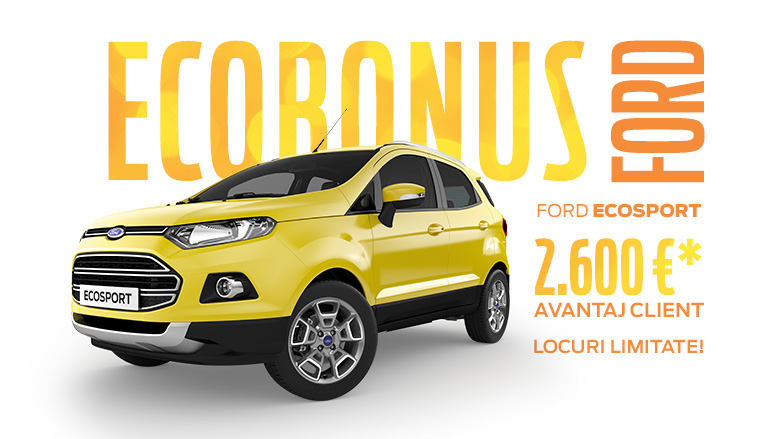
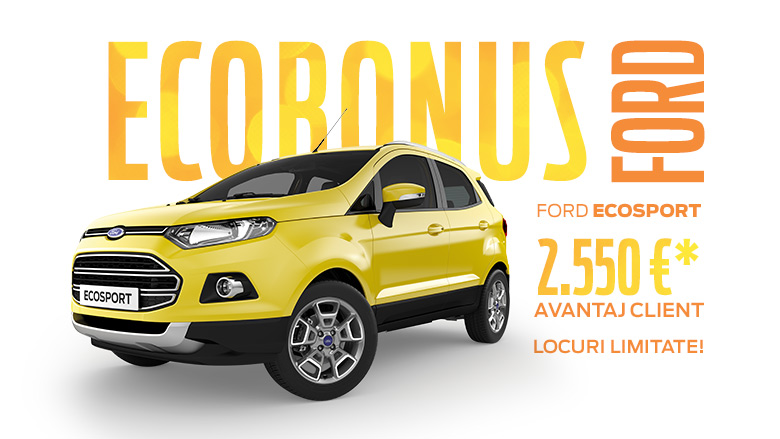
home

Changed region(s): [[0.6769, 0.533, 0.9231, 0.6811]]

diff --git a/application/views/layouts/includes/navbar.php b/application/views/layouts/includes/navbar.php
@@ -11,8 +11,9 @@
     <a href="http://www.ford.ro/">
         <img src='<?=base_url('assets/img/logo_ford.png')?>' role="presentation" alt="Ford">
     </a>
+
     <h1 class="bigHeading visuallyhidden">Ford</h1>
-   
+
 </div>
 
 
@@ -20,6 +21,13 @@
 <h2 class="navTitle">Navigare site Ford</h2>
 <ul id="sections" role="menu">
 <li class="levelOne" role="menuitem" data-nav="pv">
+
+    <a role="link" class="mainTopNav om_he_pv_li" href="/"><span>Home</span></a>
+
+
+</li>
+<li class="levelOne" role="menuitem" data-nav="pv">
+
 <a role="link" class="mainTopNav om_he_pv_li" href="#"><span>Autoturisme</span></a>
 
 <div class="doormat">
@@ -149,44 +157,45 @@
 <li class="levelOne" role="menuitem" data-nav="generic">
     <a role="link" href="/FordLeasing/Overview" class="om_he_at_li"><span>Finantare</span></a>
 </li>
-<li class="levelOne" role="menuitem" data-nav="generic">
-    <a role="link" href="#" class="om_he_at_li"><span>Tehnologii Ford</span></a>
+
+    <!--<li class="levelOne" role="menuitem" data-nav="generic">
+        <a role="link" href="#" class="om_he_at_li"><span>Tehnologii Ford</span></a>
 
 
-</li>
-<li class="levelOne" role="menuitem" data-nav="generic">
-    <a role="link" href="/FordFleet" class="om_he_at_li"><span>Flote</span></a>
-</li>
-<li class="levelOne" role="menuitem" data-nav="generic">
-    <a role="link" href="/Business_Service_Club" class="om_he_at_li"><span>Business Service Club</span></a>
-</li>
-<li class="levelOne" role="menuitem" data-nav="generic">
-    <a role="link" href="/FordService/Motorcraft" class="om_he_at_li"><span>Service</span></a>
+    </li> -->
+    <li class="levelOne" role="menuitem" data-nav="generic">
+        <a role="link" href="/FordFleet" class="om_he_at_li"><span>Flote</span></a>
+    </li>
+    <li class="levelOne" role="menuitem" data-nav="generic">
+        <a role="link" href="/Business_Service_Club" class="om_he_at_li"><span>Business Service Club</span></a>
+    </li>
+    <li class="levelOne" role="menuitem" data-nav="generic">
+        <a role="link" href="/FordService/Motorcraft" class="om_he_at_li"><span>Service</span></a>
 
-    <div class="flyout">
-        <ul class="subMenu" role="menu">
-            <li role="menuitem"><a href="/FordService/Motorcraft" class="om_he_ac_li">Ford Motorcraft</a></li>
-            <li role="menuitem"><a href="/FordService/FordServiceApp" class="om_he_ac_li">Ford Service App</a></li>
-            <li role="menuitem"><a href="/FordService/Accesorii" class="om_he_ac_li">Accesorii</a></li>
-            <li role="menuitem"><a href="/FordService/Service" class="om_he_ac_li">Service</a></li>
-            <li role="menuitem"><a href="/FordService/GarantiiSiRevizii" class="om_he_ac_li">Garanţii şi revizii Ford</a></li>
-            <li role="menuitem"><a href="/FordService/FordAsistenta12" class="om_he_ac_li">FordAsistenta 12</a></li>
-            <li role="menuitem"><a href="/FordService/AccidenteSiReparatii" class="om_he_ac_li">Accidente şi reparaţii</a></li>
-            <li role="menuitem"><a href="/FordService/Ford-Lifestyle-Collection" class="om_he_ac_li">Ford Lifestyle Collection</a></li>
-            <li role="menuitem"><a href="/FordService/FordSYNC" class="om_he_ac_li">Ford SYNC</a></li>
-            <li role="menuitem"><a href="/FordService/Ford-SYNC-cu-AppLink" class="om_he_ac_li">Ford SYNC cu AppLink</a></li>
-            <li role="menuitem"><a href="/FordService/FordSYNCBluetooth" class="om_he_ac_li">Ford SYNC cu Bluetooth</a></li>
-            <li role="menuitem"><a href="/FordService/Euro_NCAP_Advanced" class="om_he_ac_li">Euro NCAP Advanced</a></li>
-            <li role="menuitem"><a href="/FordService/E10" class="om_he_ac_li">Combustibil E10</a></li>
-            <li role="menuitem"><a href="/FordService/IntrebariFrecvente" class="om_he_ac_li">Întrebări frecvente</a></li>
-            <li role="menuitem"><a href="/FordService/Refrigerant_R134a" class="om_he_ac_li">Refrigerant R134a</a></li>
-        </ul>
-    </div>
-</li>
+        <div class="flyout">
+            <ul class="subMenu" role="menu">
+                <li role="menuitem"><a href="/FordService/Motorcraft" class="om_he_ac_li">Ford Motorcraft</a></li>
+                <li role="menuitem"><a href="/FordService/FordServiceApp" class="om_he_ac_li">Ford Service App</a></li>
+                <li role="menuitem"><a href="/FordService/Accesorii" class="om_he_ac_li">Accesorii</a></li>
+                <li role="menuitem"><a href="/FordService/Service" class="om_he_ac_li">Service</a></li>
+                <li role="menuitem"><a href="/FordService/GarantiiSiRevizii" class="om_he_ac_li">Garanţii şi revizii Ford</a></li>
+                <li role="menuitem"><a href="/FordService/FordAsistenta12" class="om_he_ac_li">FordAsistenta 12</a></li>
+                <li role="menuitem"><a href="/FordService/AccidenteSiReparatii" class="om_he_ac_li">Accidente şi reparaţii</a></li>
+                <li role="menuitem"><a href="/FordService/Ford-Lifestyle-Collection" class="om_he_ac_li">Ford Lifestyle Collection</a></li>
+                <li role="menuitem"><a href="/FordService/FordSYNC" class="om_he_ac_li">Ford SYNC</a></li>
+                <li role="menuitem"><a href="/FordService/Ford-SYNC-cu-AppLink" class="om_he_ac_li">Ford SYNC cu AppLink</a></li>
+                <li role="menuitem"><a href="/FordService/FordSYNCBluetooth" class="om_he_ac_li">Ford SYNC cu Bluetooth</a></li>
+                <li role="menuitem"><a href="/FordService/Euro_NCAP_Advanced" class="om_he_ac_li">Euro NCAP Advanced</a></li>
+                <li role="menuitem"><a href="/FordService/E10" class="om_he_ac_li">Combustibil E10</a></li>
+                <li role="menuitem"><a href="/FordService/IntrebariFrecvente" class="om_he_ac_li">Întrebări frecvente</a></li>
+                <li role="menuitem"><a href="/FordService/Refrigerant_R134a" class="om_he_ac_li">Refrigerant R134a</a></li>
+            </ul>
+        </div>
+    </li>
 
-</ul>
-</nav>
-<!--  TODO : breadcrumb navigation, viewAs and search field html fragment goes here  -->
+    </ul>
+    </nav>
+    <!--  TODO : breadcrumb navigation, viewAs and search field html fragment goes here  -->
 <div class="topContainer">
     <div id="fr" class="fr">
         <form class="searchBox fl" method="get" action="http://www.ford.ro/cs/ContentServer" role="search">

diff --git a/application/views/ford_service/test.php b/application/views/ford_service/test.php
@@ -1,8 +1,66 @@
+div id="container_center">
 <div class="center_item">
-    <div class="btoArticleTitle"><h1><font size="5">FORD <strong>MOTORCRAFT</strong> </font></h1></div>
+    <div class="btoArticleTitle">Ford Ecobonus - avantaj total client 2.550 € pentru Ford EcoSport</div>
     <div class="btoArticleText">
         <div class="btoArticleAbstract">
-            <div><strong><span style="font-size: medium;">Servicii de calitate la preturi all-inclusive pentru autovehiculele Ford cu varsta de peste 4 ani</span></strong><br> <br> <span style="color: rgb(0, 0, 255);">Discount special pentru programarea online &ndash; 39 lei reducere din pretul recomandat de vanzare la Ford Motorcraft Service daca te programezi online <a HREF="/SBE/Motorcraft/OSBOV" >aici</a> la <a TITLE="Dealeri participanti (208 KB)" HREF="/cs/BlobServer?blobtable=MungoBlobs&amp;blobcol=urldata&amp;blobheadervalue1=attachment%3Bfilename%3D%22dealeri_participanti.pdf%22&amp;blobheadervalue2=abinary%3Bcharset%3DUTF-8&amp;blobheadername1=Content-Disposition&amp;blobheadername2=MDT-Type&amp;blobheader=application%2Fpdf&amp;blobwhere=1214571747221&amp;blobkey=id" CLASS="download" onClick="if (typeof sford == 'object') omnitureLinkDownloadClick('brand:pdf download:service promotion:participating dealers','','','event:find dealer','download dealer list','pdf download','',false,'blank value','blank','blank value');" >dealerii participanti</a></span>.<br> <br> De la revizie si reparatii uzuale pana la Pre-verificare I.T.P si anvelope, la Ford Motorcraft 4+ vei gasi tot ce iţi trebuie. Un brand special conceput pentru modelele Ford cu o vechime de minimum 4 ani, Ford Motorcraft ofera preturi clare si transparente, fara costuri ascunse. Mai mult, de autoturismul tau se vor ocupa profesionistii de la Ford, ajutati de cele mai noi echipamente si piese originale Ford.</div>
+            <div>Iesi din tipare! EcoSport, noua reinterpretare Ford a unui SUV (Smart Utility Vehicle) este alegerea
+                perfecta atunci cand iti doresti o masina in care fiecare drum poate deveni o aventura urbana. Compact,
+                spatios, robust si echipat cu tehnologii de ultima generatie, EcoSport te tine mereu in miscare, oriunde
+                ai fi, oferindu-ti toata increderea de care ai nevoie atunci cand esti la volan. <br> <strong><br> La
+                    casarea masinii vechi, prin programul Ecobonus, beneficiezi de 1.500 &euro; bonus si ajungi in final
+                    sa ai un avantaj client de 2.550 &euro;, la achizitionarea unui Ford EcoSport. </strong><br> <br> Un
+                autoturism Ford EcoSport 1.5 Ti- VCT 110 CP iti ofera dotari cum ar fi:
+            </div>
+            <ul class="ListM">
+                <li>Sisteme de siguranta si stabilitate: ESP (Program Electronic de Stabilitate), ABS (Sistem
+                    Anti-Blocare la Franare), IVD (Sistem electronic de control dinamic),
+                </li>
+                <li>Airbag-uri frontale, laterale, cortina, sofer si pasager; airbag genunchi pentru sofer;</li>
+                <li>Oglinzi actionate electric si incalzite, in culoarea caroseriei;</li>
+                <li>Aer conditionat automat cu reglare separata stanga/ dreapta;</li>
+                <li>Faruri cu functie &bdquo;Follow me home&rdquo;; faruri de ceata;</li>
+                <li>Sistem MyKey;</li>
+                <li>Volan si schimbator de viteze imbracate in piele;</li>
+                <li>Tehnologie Start&amp;Stop;.</li>
+            </ul>
+            <div>Iar pachetul Trend, care este inclus in pret, iti aduce suplimentar:</div>
+            <ul class="ListM">
+                <li>bare pavilion cu aspect cromat;</li>
+                <li>jante aliaj 16&quot;;</li>
+                <li>radio CD cu 6 difuzoare, ecran color 4.2&quot;;</li>
+                <li>SYNC 1 cu Blue Tooth si Voice Control;</li>
+                <li>Sistem de Asistenta in caz de urgenta (112).</li>
+            </ul>
+            <div><strong>Rezerva acum oferta speciala pentru Ford EcoSport &ndash; click <a
+                        HREF="/Promotii/Autoturisme/Ecobonus/Rezervare">aici</a>! <br> <br> Pentru detalii despre
+                    procedura de casare si cum poti beneficia de Ecobonus, click <a
+                        HREF="/promotii/Autoturisme/Ecobonus/Procedura">aici</a>.<br> <br> Ai nevoie de mai multe
+                    informatii? Toate detaliile despre Ford EcoSport si oferta speciala iti stau la dispozitie in cel
+                    mai apropiat <a HREF="/SBE/dealeri-ford">showroom Ford</a>! </strong><br> <br> <em>* Oferta este
+                    supusa unor termeni si conditii, este adresata exclusiv persoanelor fizice si este valabila in
+                    limita stocului disponibil la dealerii participanti la program. Oferta prezentata include TVA si
+                    este obtinuta dupa includerea cumulativa a: 1. contravalorii suportului acordat de Ford Romania prin
+                    programul Ford ECOBONUS, 2. contributiei dealerilor participanti la acest program. Oferta nu include
+                    echipamente, accesorii sau dotari optionale, cu exceptia Pachetului Trend aferent fiecarui
+                    model.<br> Consumul mixt masurat in conformitate cu dispozitiile legale in vigoare (e.g Directiva
+                    Europeana nr. 715/2007) pentru EcoSport Trend 1.5 Ti- VCT 110 CP: 6.3 l/100 km, emisii
+                    CO<sub>2</sub> (g/km):149, valoare masurata in conformitate cu dispozitiile legale in vigoare. </em>
+                <style type="text/css">
+                    .ListM li {
+                        list-style-type: disc;
+                    }
+                </style>
+            </div>
         </div>
     </div>
-</div>           
+</div>
+<div class="center_item">
+</div>
+<div class="center_item">
+</div>
+<div class="center_item">
+</div>
+<div class="center_item">
+</div>
+<div id="center_btt">
+</div>

diff --git a/application/views/promotii/autoturisme/ecobonus/oferta_ecosport_e.php b/application/views/promotii/autoturisme/ecobonus/oferta_ecosport_e.php
@@ -179,17 +179,16 @@ if(typeof(sford)=='object') omnitureMDPFullScreen('1205111010986'); return false
     </div>
     <div id="container_center">
         <div class="center_item">
-            <div class="btoArticleTitle">Ford Ecobonus - avantaj total client 2.600 € pentru Ford EcoSport</div>
+            <div class="btoArticleTitle">Ford Ecobonus - avantaj total client 2.550 € pentru Ford EcoSport</div>
             <div class="btoArticleText">
                 <div class="btoArticleAbstract">
-                    <div>Iesi din tipare! EcoSport, noua reinterpretare Ford a unui SUV (Smart Utility Vehicle) este
-                        alegerea perfecta atunci cand iti doresti o masina in care fiecare drum poate deveni o aventura
-                        urbana. Compact, spatios, robust si echipat cu tehnologii de ultima generatie, EcoSport te tine
-                        mereu in miscare, oriunde ai fi, oferindu-ti toata increderea de care ai nevoie atunci cand esti
-                        la volan. <br> <strong><br> La casarea masinii vechi, prin programul Ecobonus, beneficiezi de
-                            1.500 &euro; bonus si ajungi in final sa ai un avantaj client de 2.600 &euro;, la
-                            achizitionarea unui Ford EcoSport. </strong><br> <br> Un autoturism Ford EcoSport 1.5 Ti-
-                        VCT 110 CP iti ofera dotari cum ar fi:
+                    <div>Iesi din tipare! EcoSport, noua reinterpretare Ford a unui SUV (Smart Utility Vehicle) este alegerea
+                        perfecta atunci cand iti doresti o masina in care fiecare drum poate deveni o aventura urbana. Compact,
+                        spatios, robust si echipat cu tehnologii de ultima generatie, EcoSport te tine mereu in miscare, oriunde
+                        ai fi, oferindu-ti toata increderea de care ai nevoie atunci cand esti la volan. <br> <strong><br> La
+                            casarea masinii vechi, prin programul Ecobonus, beneficiezi de 1.500 &euro; bonus si ajungi in final
+                            sa ai un avantaj client de 2.550 &euro;, la achizitionarea unui Ford EcoSport. </strong><br> <br> Un
+                        autoturism Ford EcoSport 1.5 Ti- VCT 110 CP iti ofera dotari cum ar fi:
                     </div>
                     <ul class="ListM">
                         <li>Sisteme de siguranta si stabilitate: ESP (Program Electronic de Stabilitate), ABS (Sistem
@@ -212,20 +211,17 @@ if(typeof(sford)=='object') omnitureMDPFullScreen('1205111010986'); return false
                         <li>Sistem de Asistenta in caz de urgenta (112).</li>
                     </ul>
                     <div><strong>Rezerva acum oferta speciala pentru Ford EcoSport &ndash; click <a
-                                HREF="Rezervare">aici</a>! <br> <br> Pentru detalii despre procedura de casare si
-                            cum poti beneficia de Ecobonus, click <a HREF="Procedura-2">aici</a>.<br> <br> Ai
-                            nevoie de mai multe informatii? Toate detaliile despre Ford EcoSport si oferta speciala iti
-                            stau la dispozitie in cel mai apropiat <a HREF="#">showroom
-                                Ford</a>! </strong><br> <br> <em>* Oferta este supusa unor termeni si conditii, este
-                            adresata exclusiv persoanelor fizice si este valabila in limita stocului disponibil la
-                            dealerii participanti la program. Oferta prezentata include TVA si este obtinuta dupa
-                            includerea cumulativa a: 1. contravalorii suportului acordat de Ford Romania prin programul
-                            Ford ECOBONUS, 2. contributiei dealerilor participanti la acest program. Oferta nu include
+                                HREF="/Promotii/Autoturisme/Ecobonus/Rezervare">aici</a>! <br> <br> Pentru detalii despre
+                            procedura de casare si cum poti beneficia de Ecobonus, click <a
+                                HREF="/promotii/Autoturisme/Ecobonus/Procedura">aici</a>.<br> </strong><br> <br> <em>* Oferta este
+                            supusa unor termeni si conditii, este adresata exclusiv persoanelor fizice si este valabila in
+                            limita stocului disponibil la dealerii participanti la program. Oferta prezentata include TVA si
+                            este obtinuta dupa includerea cumulativa a: 1. contravalorii suportului acordat de Ford Romania prin
+                            programul Ford ECOBONUS, 2. contributiei dealerilor participanti la acest program. Oferta nu include
                             echipamente, accesorii sau dotari optionale, cu exceptia Pachetului Trend aferent fiecarui
-                            model.<br> Consumul mixt masurat in conformitate cu dispozitiile legale in vigoare (e.g
-                            Directiva Europeana nr. 715/2007) pentru EcoSport Trend 1.5 Ti- VCT 110 CP: 6.3 l/100 km,
-                            emisii CO<sub>2</sub> (g/km):149, valoare masurata in conformitate cu dispozitiile legale in
-                            vigoare. </em>
+                            model.<br> Consumul mixt masurat in conformitate cu dispozitiile legale in vigoare (e.g Directiva
+                            Europeana nr. 715/2007) pentru EcoSport Trend 1.5 Ti- VCT 110 CP: 6.3 l/100 km, emisii
+                            CO<sub>2</sub> (g/km):149, valoare masurata in conformitate cu dispozitiile legale in vigoare. </em>
                         <style type="text/css">
                             .ListM li {
                                 list-style-type: disc;

diff --git a/application/views/promotii/autoturisme/ecobonus/procedura.php b/application/views/promotii/autoturisme/ecobonus/procedura.php
@@ -55,17 +55,17 @@
                             </div>
                             <ul class="navsubmenu">
                                 <li class=''>
-                                    <a href='../Ecobonus'>Ecobonus</a></li>
+                                    <a href='/Promotii/Autoturisme/Ecobonus'>Ecobonus</a></li>
                                 <li class=''>
-                                    <a href='../NoulKAPlus'>Noul KA Plus</a></li>
+                                    <a href='/Promotii/Autoturisme/NoulKAPlus'>Noul KA Plus</a></li>
                                 <li class=''>
-                                    <a href='../NoulFordEdge'>Noul Ford Edge</a></li>
+                                    <a href='/Promotii/Autoturisme/NoulFordEdge'>Noul Ford Edge</a></li>
                                 <li class=''>
-                                    <a href='../KugaSummerEdition'>Kuga Summer Edition</a></li>
+                                    <a href='/Promotii/Autoturisme/KugaSummerEdition'>Kuga Summer Edition</a></li>
                                 <li class=''>
-                                    <a href='../BusinessWeeks'>BusinessWeeks</a></li>
+                                    <a href='/Promotii/Autoturisme/BusinessWeeks'>BusinessWeeks</a></li>
                                 <li class=''>
-                                    <a href='../PromotieFlote'>Promotie Flote</a></li>
+                                    <a href='/Promotii/Autoturisme/PromotieFlote'>Promotie Flote</a></li>
                             </ul>
                             <div class="navsubmenubottom">
                             </div>

diff --git a/application/views/home.php b/application/views/home.php
@@ -5,6 +5,28 @@
             <!--Rendering the Image Panel-->
             <article role="option">
                 <a class="carImg" href="#img1">
+                    <img src="/assets/img/prima_pag.jpg" alt="" role="presentation"></a>
+
+                <div class="innerBox posBottomLeft SlateText">
+                    <div class="">
+                        <h2 class="bigHeading02">
+                        </h2>
+
+                        <p class="captionTxt">
+                        </p>
+
+                        <div class="btnwrapper">
+                            <div class="btnLink light">
+                                <a role="button" class="om_ca_in"
+                                   href="https://www.youtube.com/watch?v=Z8tKGd3ahHc">URMARESTE FILMUL</a>
+                            </div>
+                        </div>
+                    </div>
+                </div>
+            </article>
+
+            <article role="option">
+                <a class="carImg" href="#img1">
                     <img src="/assets/img/1214565385811.jpg" alt="" role="presentation"></a>
 
                 <div class="innerBox posBottomLeft SlateText">
@@ -24,6 +46,8 @@
                     </div>
                 </div>
             </article>
+
+
 
             <article role="option">
                 <a class="carImg" href="#img1">
